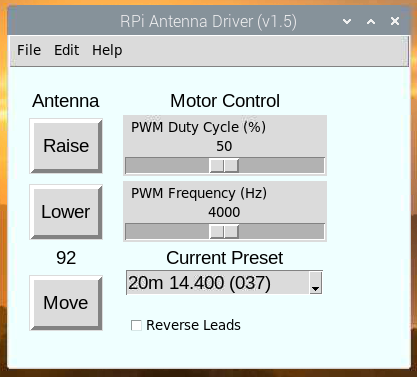
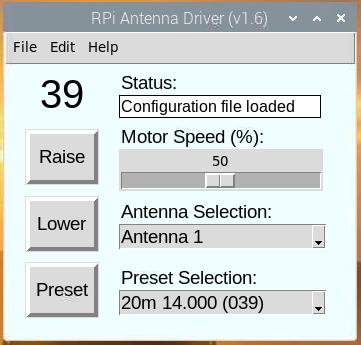
RPiAntDrv.py updates

diff --git a/RPiAntDrv.py b/RPiAntDrv.py
@@ -23,7 +23,7 @@ class Window(Frame):
         
         # parameters to send through the Frame class. 
         Frame.__init__(self, master)   
-
+        
         #reference to the master widget, which is the tk window                 
         self.master = master
         
@@ -46,15 +46,15 @@ class Window(Frame):
         
         # Run init_window, which doesn't yet exist
         self.init_window()
-     
+        
     #Creation of init_window
     def init_window(self):
         self.master.title('RPi Antenna Driver (v1.6)')
         # Set up root window & size (width x height + x_offset + y_offset)
         self.bg_color = 'azure'
-        self.master.geometry("400x300+30+30")
+        self.master.geometry("350x275+150+100")
         self.master.configure(bg= self.bg_color)
-     
+        
         # Create menu entry and sub-options
         menubar = Menu(self.master)
         self.master.config(menu=menubar)        
@@ -65,13 +65,13 @@ class Window(Frame):
         filemenu.add_separator()
         filemenu.add_command(label="Quit", command=self.close)
         menubar.add_cascade(label="File", menu=filemenu)
-     
+        
         editmenu = Menu(menubar, tearoff=0)
         editmenu.add_command(label="Default ini", command=self.confirm_newini)
         editmenu.add_command(label="Sync Count", command=self.confirm_sync)
         editmenu.add_command(label="Undefined 2", command=self.about)
         menubar.add_cascade(label="Edit", menu=editmenu)
-     
+        
         helpmenu = Menu(menubar, tearoff=0)
         helpmenu.add_command(label="About", command=self.about)
         menubar.add_cascade(label="Help", menu=helpmenu)
@@ -81,24 +81,28 @@ class Window(Frame):
         text_1.grid(row=0, column=0, rowspan=2, pady=1, sticky=S)
         
         text_2 = Label(text='Status:', font = ('Helvetica', 14),
-                       bg = self.bg_color, fg='black', padx=10, height=1, anchor=S)
-        text_2.grid(row=0, column=1, columnspan=1, sticky=S)
+                       bg = self.bg_color, fg='black', height=1,
+                       anchor=SW, width=22, justify=LEFT)
+        text_2.grid(row=0, column=1, columnspan=1, sticky=SW)
         
         text_3 = Label(textvariable=self.status_message, font = ('Helvetica', 12),
-                       bg='white', fg='black', padx=5, height=1, anchor=NW, width=21,
+                       bg='white', fg='black', height=1, anchor=NW, width=22,
                        borderwidth=1, relief="solid")
-        text_3.grid(row=1, column=1, sticky=N)
+        text_3.grid(row=1, column=1, sticky=NW)
         
-        text_4 = Label(text='Motor Speed %', font = ('Helvetica', 14),
-                       bg = self.bg_color, fg='black', padx=10, height=1, anchor=S)
+        text_4 = Label(text='Motor Speed (%):', font = ('Helvetica', 14),
+                       bg = self.bg_color, fg='black', padx=1, height=1,
+                       anchor=SW, width=22, justify=LEFT)
         text_4.grid(row=2, column=1, columnspan=1, sticky=S)
         
-        text_5 = Label(text='Antenna', font = ('Helvetica', 14),
-                       bg = self.bg_color, fg='black', padx=20, height=1, anchor=S)
+        text_5 = Label(text='Antenna Selection:', font = ('Helvetica', 14),
+                       bg = self.bg_color, fg='black', padx=1, height=1,
+                       anchor=SW, width=22, justify=LEFT)
         text_5.grid(row=4, column=1, columnspan=1, sticky=S)
         
-        text_6 = Label(text='Preset',  font = ('Helvetica', 14),
-                       bg = self.bg_color, fg='black', padx=20, height=1, anchor=S)
+        text_6 = Label(text='Preset Selection:',  font = ('Helvetica', 14),
+                       bg = self.bg_color, fg='black', padx=1, height=1,
+                       anchor=W, width=22, justify=LEFT)
         text_6.grid(row=6, column=1, columnspan=1, sticky=S)
         
         self.raise_button = Button(text='Raise', relief=RAISED, bd=4, padx=1,
@@ -112,7 +116,7 @@ class Window(Frame):
         self.lower_button.grid(row=4, column=0, padx=20, pady=5, rowspan=2)
         self.lower_button.bind("<ButtonPress>", self.lower_button_press)
         self.lower_button.bind("<ButtonRelease>", self.RL_button_release)
-     
+        
         self.preset_button = Button(text='Preset', relief=RAISED, bd=4, padx=1,
                pady=1, height=2, width=6, font=('Helvetica', 14))
         self.preset_button.grid(row=6, column=0, padx=5, pady=5, rowspan=2)
@@ -121,18 +125,18 @@ class Window(Frame):
         self.duty_scale = Scale(from_=1, to=100, orient = HORIZONTAL,
                                 resolution = 1, length=200,
                                 command = self.update_pwm_duty)
-        self.duty_scale.grid(row=3,column=1)
-     
+        self.duty_scale.grid(row=3,column=1, sticky=NW)
+        
         # Antenna preset combo box is populated with values from ini file
-        self.antenna_combobox = ttk.Combobox(width=18, font=('Helvetica', 14),
+        self.antenna_combobox = ttk.Combobox(width=19, font=('Helvetica', 14),
                                             state='readonly')
-        self.antenna_combobox.grid(row=5, column=1, sticky=N)
+        self.antenna_combobox.grid(row=5, column=1, sticky=NW)
         self.antenna_combobox.bind("<<ComboboxSelected>>", self.get_antenna_val)
         
         # Antenna preset combo box is populated with values from ini file
-        self.preset_combobox = ttk.Combobox(width=18, font=('Helvetica', 14),
+        self.preset_combobox = ttk.Combobox(width=19, font=('Helvetica', 14),
                                             state='readonly')
-        self.preset_combobox.grid(row=7, column=1, sticky=N)
+        self.preset_combobox.grid(row=7, column=1, sticky=NW)
         self.preset_combobox.bind("<<ComboboxSelected>>", self.get_preset_val)
         
         self.ini_test ()  # Check for ini file existence
@@ -140,11 +144,11 @@ class Window(Frame):
         self.gpioconfig() # Set up GPIO for antenna control
         
         return
-     
+        
     def raise_button_press(self, _unused):
         self.motor_stalled = 0
         self.motor_up ()
-              
+        
     def lower_button_press(self, _unused):
         self.motor_stalled = 0
         self.motor_down ()
@@ -152,7 +156,7 @@ class Window(Frame):
     def RL_button_release(self, _unused):
         self.motor_stop ()
         self.status_message.set ("Ready")
-
+        
     def preset_button_press(self, _unused):
         self.motor_stalled = 0
         self.motor_move()
@@ -197,7 +201,7 @@ class Window(Frame):
             self.motor_running = 1
             # Initialize stall counter and start stall timer
             self.motor_stall()
-        
+         
     def motor_down(self):
         # We can change speed on the fly
         self.pwm_set.ChangeFrequency(self.pwm_freq)
@@ -210,14 +214,14 @@ class Window(Frame):
             self.antenna_raising = 0
             # Initialize stall detection
             self.motor_stall()
-        
+         
     def motor_stop(self):
         GPIO.output(self.dir1_pin, GPIO.LOW) # Stop motor
         GPIO.output(self.dir2_pin, GPIO.LOW)
         self.pwm_set.ChangeDutyCycle(0)      # Kill PWM
         self.motor_running = 0
         #self.ini_update()
-
+     
     def motor_stall(self):
         # Set stall period proportional to motor speed
         self.stall_period = int((100 / self.duty_scale.get())* self.stall_time)
@@ -233,14 +237,14 @@ class Window(Frame):
                 self.motor_stalled = 1
                 self.motor_stop()
                 self.stall_active = 0
-                self.status_message.set ("Antenna Stalled!")
+                self.status_message.set ("! Antenna Stalled !")
             # Else reset stall count and timer
             else:
                 self.stall_count = self.encoder_count.get()
                 self.master.after(self.stall_period, self.motor_stall)
         else:
             self.stall_active = 0
-             
+            
     def motor_move(self):
         # If motor is stalled, exit
         if (self.motor_stalled == 1):
@@ -254,11 +258,11 @@ class Window(Frame):
         Lval= (self.ant_preset_val -5)
         Hval= (self.ant_preset_val +6)
         if self.encoder_count.get() in range(Lval, Hval):
-            self.status_message.set ("Slowing Down")
+            self.status_message.set ("Slowing down")
             self.duty_scale.set(25)
         # Else run full speed    
         else:
-            self.status_message.set ("Full Speed")
+            self.status_message.set ("Full speed")
             self.duty_scale.set(100)
             
         # If encoder count > preset drive antenna down
@@ -269,22 +273,22 @@ class Window(Frame):
             self.motor_up()
         # after 100mS, call this function again
         self.master.after(100, self.motor_move)
-     
+         
     def get_antenna_val(self, _unused):
         # fetch new antenna configuration and presets
         config = configparser.ConfigParser()
-        config.optionxform=str
         config.read ('RPiAntDrv.ini')
         self.last_antenna = self.antenna_combobox.get()
         self.ini_refresh(config)
-        
+         
     def get_preset_val(self, _unused):
         # get the preset value stored in the ini file
         config = configparser.ConfigParser()
         config.read ('RPiAntDrv.ini')
-        self.ant_preset_val = (config.getint(self.ant_preset_sect, self.preset_combobox.get()))
+        self.ant_preset_val = (config.getint(self.ant_preset_sect,
+                                             self.preset_combobox.get()))
         #print (self.ant_preset_val)
-        
+         
     def update_pwm_duty(self, _unused):
         self.pwm_duty = self.duty_scale.get()
         #print (_unused)
@@ -302,14 +306,15 @@ class Window(Frame):
         # Set up the simple encoder switch input and add de-bounce time in mS
         # GPIO.RISING interrupts on both edges, GPIO.FALLING seems better behaved
         GPIO.setup(self.encoder_pin, GPIO.IN, pull_up_down=GPIO.PUD_UP)
-        GPIO.add_event_detect(self.encoder_pin, GPIO.FALLING, bouncetime=40, callback=self.encoder_ISR)
+        GPIO.add_event_detect(self.encoder_pin, GPIO.FALLING,
+                              bouncetime=40, callback=self.encoder_ISR)
         # Note GPIO.PWM is software not hardware PWM
         self.pwm_set = GPIO.PWM(self.pwm_pin, self.pwm_freq) # Set up PWM for use
         #self.pwm_set.stop()                       # Stop pwm output
         self.pwm_set.start(self.pwm_duty)          # Start pwm output at 0%
-     
+        
         GPIO.setwarnings(True)
-     
+        
     def encoder_ISR(self, _channel):
         # Do as little as possible in the ISR, get in and get out!
         # Increment the encoder count and jump out
@@ -321,8 +326,6 @@ class Window(Frame):
     def ini_new(self): # Set up an ini file if it does not exist
         # Configuration file parser to read and write ini file
         config = configparser.ConfigParser()
-        # Make options case sensitive
-        config.optionxform = str
         # User configurable program settings
         config['Settings'] = {'pwm_pin':'12',
                               'dir1_pin':'16',
@@ -338,7 +341,8 @@ class Window(Frame):
                                       'pwm_duty':'50',
                                       'stall_time':'250'}
         
-        config['Antenna 1_Preset'] = {'80m _3.500 (226)':'226',
+        config['Antenna 1_Preset'] = {'maximum    (270)':'270',
+                                      '80m _3.500 (226)':'226',
                                       '80m _4.000 (192)':'192',
                                       '60m _5.300 (130)':'130',
                                       '60m _5.400 (127)':'127',
@@ -348,18 +352,19 @@ class Window(Frame):
                                       '30m 10.200 (054)':'54',
                                       '20m 14.000 (039)':'39',
                                       '20m 14.400 (037)':'37',
-                                      'Park Pos.  (000)':'0'}        
-     
+                                      'minimum    (000)':'0'}        
+        
         config['Antenna 2_Config'] = {'pwm_freq':'2000',
                                       'pwm_duty':'50',
                                       'stall_time':'250'}
         
-        config['Antenna 2_Preset'] = {'80m _3.700 (200)':'200',
+        config['Antenna 2_Preset'] = {'maximum    (270)':'270',
+                                      '80m _3.700 (200)':'200',
                                       '60m _5.350 (129)':'129',
                                       '40m _7.250 (090)':'90',
                                       '30m 10.100 (055)':'55',
                                       '20m 14.200 (038)':'38',
-                                      'Park Pos.  (000)':'0'}
+                                      'minimum    (000)':'0'}
         
         # Save the default configuration file
         with open('RPiAntDrv.ini', 'w') as configfile:
@@ -375,12 +380,10 @@ class Window(Frame):
             #Does not exist OR no read permissions
             self.status_message.set ("Configuration file created")
             self.ini_new ()
-     
+            
     def ini_read(self):
         # Read ini file and set up parameters
         config = configparser.ConfigParser()
-        # Make options case sensitive
-        config.optionxform = str
         config.read ('RPiAntDrv.ini')
         # Retrieve I/O pin assignments
         self.pwm_pin = (config.getint ('Settings','pwm_pin',fallback=12))
@@ -397,7 +400,7 @@ class Window(Frame):
         self.antenna_combobox['values']=[item.strip() for item in _antennas.split(',')]         
         self.last_antenna = (config.get('Settings','last_antenna',fallback="Antenna 1"))
         self.antenna_combobox.set(self.last_antenna)
-        self.preset_combobox.set(config.get('Settings','last_preset',fallback=1))
+        self.preset_combobox.set(config.get('Settings','last_preset',fallback='None'))
         
         # refresh antenna settings and presets
         self.ini_refresh(config)
@@ -413,8 +416,6 @@ class Window(Frame):
         
     def ini_update(self):
         config = configparser.ConfigParser()
-        # Make options case sensitive
-        config.optionxform = str
         # Perform read-modify-write of ini file
         # Note: Anytyhing written must be a string value
         config.read ('RPiAntDrv.ini')
@@ -435,7 +436,7 @@ class Window(Frame):
     def about(self):
         popup = Toplevel()
         popup.title("About RPiAntDrv")
-        popup.geometry("350x250+30+30")
+        popup.geometry("325x225+162+168")
         popup.configure(bg= 'snow')
         
         popup_text1 = Label(popup, text='RPiAntDrv.py   v1.6',
@@ -453,15 +454,16 @@ class Window(Frame):
         popup_text2.grid(row=1, column=0, columnspan=1)
         
         popup.mainloop()
-     
+        
 def main():
-
+    
     # root window created. Here, that would be the only window, but
     # you can later have windows within windows.
     root = Tk()
     app = Window(root) #creation of an instance
     root.protocol("WM_DELETE_WINDOW", app.close) # cleanup GPIO when X closes window
     root.mainloop() # Loops forever
-
+     
 if __name__ == '__main__':
     main()
+     
